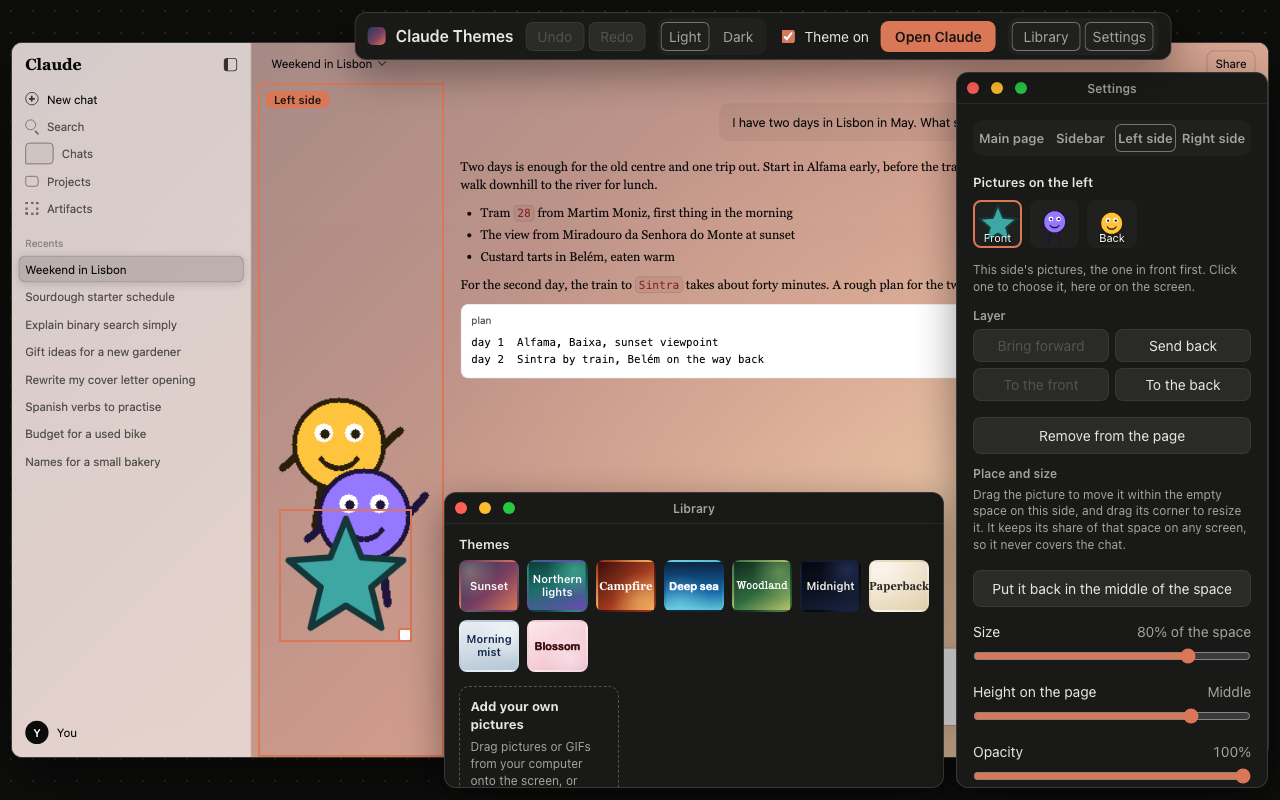
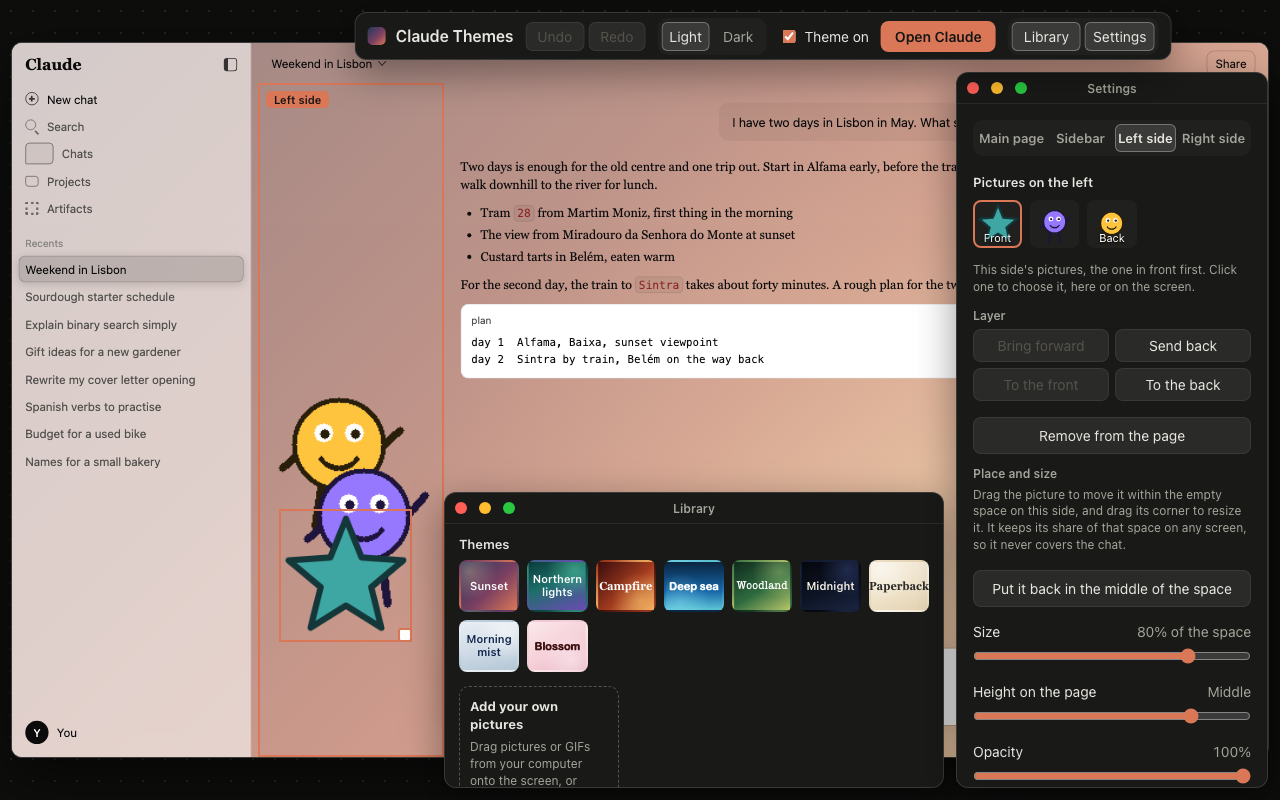
Fixes from a second read of 0.21.1, before it goes out
A second model read the polish pass and found five faults that every test
had passed. Each was reproduced or measured before it was fixed.

- A bar wrapped onto two rows lay over the Settings title bar and took the
  presses meant for its dots, because Settings and the notes still started
  72 pixels down. They start under however tall the bar is (--under-bar,
  kept by a ResizeObserver on the bar).
- A press on the outermost pixels of a button that gives when pressed was
  lost: the button shrank from under the pointer and the click went to
  what was behind it. While pressed, a button is pressed from all of its
  first size.
- The cross on a saved picture was pressed from 32 pixels, not 24, and
  reached into the pictures beside and above. It is 24: out as far as the
  gap, and 16 into its own picture.
- A pressed window's layer went up by one each time and passed the bar's
  after about 900 presses. The pressed window is one layer above the
  other, and no higher.
- The close dot's 24 pixels lay partly under the window's resize corner.
  The dots are in front of it.

New tests: the settings under a wrapped bar, the bar in front after 1200
presses, and pressing each window to the front in turn. Both new ones fail
on the code as it was.

docs/screenshots are remade. The last ones were taken on a clock that does
not run the new fades, so they showed the chosen theme with no outline and
Undo as if it were off. The test page turns fades off for these pictures.
[…]

diff --git a/tests/fragments/editor-page.tail.html b/tests/fragments/editor-page.tail.html
@@ -99,6 +99,12 @@
   const drag = async (handle, across, down) => { const h = handle.getBoundingClientRect(), x = h.left + Math.min(h.width / 2, 120), y = h.top + h.height / 2; point(handle, "pointerdown", x, y); point(handle, "pointermove", x + across / 2, y + down / 2); point(handle, "pointermove", x + across, y + down); point(handle, "pointerup", x + across, y + down); await wait(40); };
   const title = (id) => el(id).querySelector(".titlebar"), edge = (id, side) => el(id).querySelector(".edge." + side);
   r.windowsAtFirst = { library: box("library"), inspector: box("inspector"), bar: box("bar"), kept: JSON.stringify(store.editorWindows ?? null), titles: [...document.querySelectorAll(".titlebar b")].map((b) => b.textContent).join(","), edges: document.querySelectorAll("#library .edge").length + "+" + document.querySelectorAll("#inspector .edge").length + "+" + document.querySelectorAll("#bar .edge").length };
+  // A bar wrapped onto more rows, as in a narrow browser window: the settings start under it, not behind it. Then one row again.
+  const under = () => document.body.style.getPropertyValue("--under-bar"), clear = () => el("inspector").getBoundingClientRect().top - el("bar").getBoundingClientRect().bottom;
+  el("bar").style.maxWidth = "420px"; await until(() => el("bar").offsetHeight > 48 && under() !== "72px");
+  const wrapped = { barIsTaller: el("bar").offsetHeight > 48, settingsStartBelowItBy: clear() };
+  el("bar").style.maxWidth = ""; await until(() => under() === "72px");
+  r.underAWrappedBar = { ...wrapped, oneRowAgain: under() + ", settings below it by " + clear(), inspectorBackWhereItWas: box("inspector") === r.windowsAtFirst.inspector };
   await drag(title("library"), -150, -200);
   r.libraryMoved = { box: box("library"), kept: JSON.stringify(store.editorWindows.library), othersStayed: box("inspector") === r.windowsAtFirst.inspector && box("bar") === r.windowsAtFirst.bar };
   await drag(edge("library", "se"), 120, 90);
@@ -119,9 +125,14 @@
   r.barMoved = box("bar");
   await drag(title("library"), -5000, 5000);
   r.cannotBeLostOffTheEdge = { box: box("library"), window: innerWidth + "x" + innerHeight };
-  point(title("library"), "pointerdown", 10, 10); point(title("library"), "pointerup", 10, 10); const libraryFront = Number(el("library").style.zIndex);
-  point(el("inspector"), "pointerdown", 10, 10); point(el("inspector"), "pointerup", 10, 10);
-  r.pressedWindowComesToFront = Number(el("inspector").style.zIndex) > libraryFront && libraryFront > 2;
+  const layer = (id) => Number(getComputedStyle(el(id)).zIndex);
+  // The library was the last one dragged, so it is in front: press the settings, then the library again.
+  point(el("inspector"), "pointerdown", 10, 10); point(el("inspector"), "pointerup", 10, 10); const settingsFront = layer("inspector") > layer("library");
+  point(title("library"), "pointerdown", 10, 10); point(title("library"), "pointerup", 10, 10);
+  r.pressedWindowComesToFront = settingsFront && layer("library") > layer("inspector");
+  // The bar stays in front of both however many times they are pressed.
+  for (let i = 0; i < 1200; i++) { point(el(i % 2 ? "library" : "inspector"), "pointerdown", 10, 10); }
+  r.barStaysInFrontAfterManyPresses = layer("bar") > layer("inspector") && layer("bar") > layer("library");
   el("inspector").querySelector(".fold").click(); await wait(30);
   r.folded = { box: box("inspector"), content: getComputedStyle(el("inspector").querySelector(".content")).display, kept: store.editorWindows.inspector.folded };
   el("inspector").querySelector(".fold").click(); await wait(30);

diff --git a/editor.css b/editor.css
@@ -308,8 +308,11 @@ body.moving {
     pointer-events: none;
 }
 
-/* The three dots: close, fold away, put back. */
+/* The three dots: close, fold away, put back. They lie over the window's top
+   left corner, which resizes it, so a press beside the first dot is the dot's. */
 .lights {
+    position: relative;
+    z-index: 2;
     display: flex;
     gap: 12px;
 }
@@ -325,8 +328,7 @@ body.moving {
 
 /* Each dot is pressed from a 24px square around it; the squares touch and do not
    overlap. */
-.lights button::before,
-.remove::before {
+.lights button::before {
     position: absolute;
     inset: -6px;
     content: "";
@@ -532,14 +534,15 @@ body.moving {
     background: #e58a6b;
 }
 
-/* Notes that sit under the bar. */
+/* Notes that sit under the bar: 72px down while the bar is one row, further when
+   it has wrapped (--under-bar, kept by editor.js). */
 #stale,
 #not-a-chat,
 #unfamiliar,
 #refresh,
 #toast {
     position: fixed;
-    top: 72px;
+    top: var(--under-bar, 72px);
     left: var(--middle, 50%);
     box-sizing: border-box;
     margin: 0;
@@ -593,10 +596,10 @@ body.moving {
 /* The settings: at the right, or at the left while the right-hand side is
    selected, so that they never start out over the part being changed. */
 #inspector {
-    top: 72px;
+    top: var(--under-bar, 72px);
     right: 12px;
     width: 312px;
-    max-height: calc(100vh - 84px);
+    max-height: calc(100vh - var(--under-bar, 72px) - 12px);
 }
 
 body.dock-left #inspector:not(.moved) {
@@ -833,6 +836,14 @@ h3 {
     font-size: 13px;
     line-height: 1;
     opacity: 0;
+}
+
+/* It is pressed from a 24px square: out as far as the gap between two pictures,
+   and a pixel further into its own picture than the cross is drawn. */
+.remove::before {
+    position: absolute;
+    inset: -3px -3px -1px -1px;
+    content: "";
 }
 
 .cell:hover .remove,
@@ -1159,6 +1170,21 @@ input[type="text"] {
     .layers button:not(:disabled):active,
     #add button:active,
     #ask button:active {
+        position: relative;
         scale: 0.96;
+    }
+
+    /* A press on a button's outermost pixels would find, on letting go, that the
+       button had shrunk from under the pointer, and the click would go to whatever
+       is behind. While it is pressed it is pressed from all of its first size. */
+    .group button:not(:disabled):active::after,
+    .go:active::after,
+    .wide:not(:disabled):active::after,
+    .layers button:not(:disabled):active::after,
+    #add button:active::after,
+    #ask button:active::after {
+        position: absolute;
+        inset: -4%;
+        content: "";
     }
 }

diff --git a/editor.js b/editor.js
@@ -1306,7 +1306,6 @@ const smallest = { width: 220, height: 120 };
 // width, their gap from the edge and a gap beside them (see #inspector in editor.css).
 const settingsSpace = 312 + 12 + 12;
 let windows = {};
-let front = 2;
 
 function keepWindows() {
     chrome.storage.local.set({ editorWindows: windows });
@@ -1401,11 +1400,16 @@ function makeWindow(id) {
     const element = byId(id);
     let box = null;
 
-    // A press anywhere on a window brings it in front of the others. The bar is
-    // always in front (see #bar in editor.css).
+    // A press anywhere on a window brings it in front of the other one, which goes
+    // back to the layer the stylesheet gives it. The bar is always in front of both
+    // (see #bar in editor.css).
     if (id !== "bar") {
         element.addEventListener("pointerdown", () => {
-            element.style.zIndex = ++front;
+            for (const other of windowIds) {
+                if (other !== "bar") {
+                    byId(other).style.zIndex = other === id ? 3 : "";
+                }
+            }
         }, true);
     }
 
@@ -1736,6 +1740,11 @@ async function start() {
     placeWindows();
     // A smaller browser window may leave a window out of reach: bring it back in.
     window.addEventListener("resize", placeWindows);
+    // The bar wraps onto more rows in a narrow browser window. What starts out
+    // under it (the notes, the settings) starts under however tall it is.
+    new ResizeObserver(() => {
+        document.body.style.setProperty("--under-bar", byId("bar").offsetHeight + 24 + "px");
+    }).observe(byId("bar"));
 
     chrome.storage.onChanged.addListener((changes) => {
         // The placed pictures changed by something else (the upload page, an editor

diff --git a/tests/fragments/editor.head.html b/tests/fragments/editor.head.html
@@ -24,7 +24,8 @@
   if (q.get("frame")) store.frameMain = q.get("frame");
   if (q.get("text")) store.textColor = q.get("text");
   if (q.get("side")) store.sidebarMode = q.get("side");
-  // For the pictures in docs/: no first-time note, and a chosen light or dark preview.
-  if (q.get("shots")) store.welcomed = true;
+  // For the pictures in docs/: no first-time note, and a chosen light or dark preview. Nothing fades either: the picture
+  // is taken on a clock that does not run the fades, so it would show each button as it was before it was pressed.
+  if (q.get("shots")) { store.welcomed = true; const still = document.createElement("style"); still.textContent = "* { transition: none !important; }"; document.head.appendChild(still); }
   addEventListener("load", () => setTimeout(() => { if (q.get("theme")) document.querySelector(`#themes .tile[data-theme="${q.get("theme")}"]`).click(); if (q.get("part")) document.getElementById("part-" + q.get("part")).click(); if (q.get("dark")) document.getElementById("mode-dark").click(); if (q.get("light")) document.getElementById("mode-light").click(); if (q.get("drag")) startDragging({ kind: q.get("drag") }); if (q.get("click")) document.getElementById(q.get("click")).click(); }, 300));
 </script>

diff --git a/CHANGELOG.md b/CHANGELOG.md
@@ -10,7 +10,8 @@ A polish pass over the editor. It looks and works as before; these are the detai
 - The windows are solid. They were slightly see-through, and the page's own writing
   showed through and ran into theirs.
 - The bar wraps onto more rows when the browser window is too narrow for one, where its
-  last buttons used to be cut off, and it always stays in front of the two windows.
+  last buttons used to be cut off, and it always stays in front of the two windows. The
+  settings and the notes under it start below however many rows it has.
 - The chosen one of a row of choices (Main page, Sidebar and so on) has a rim as well as a
   lighter fill, and the edges of the font box and the colour chips are easier to see.
 - Plain buttons stand out a little more from the window they are on. Buttons fade between
